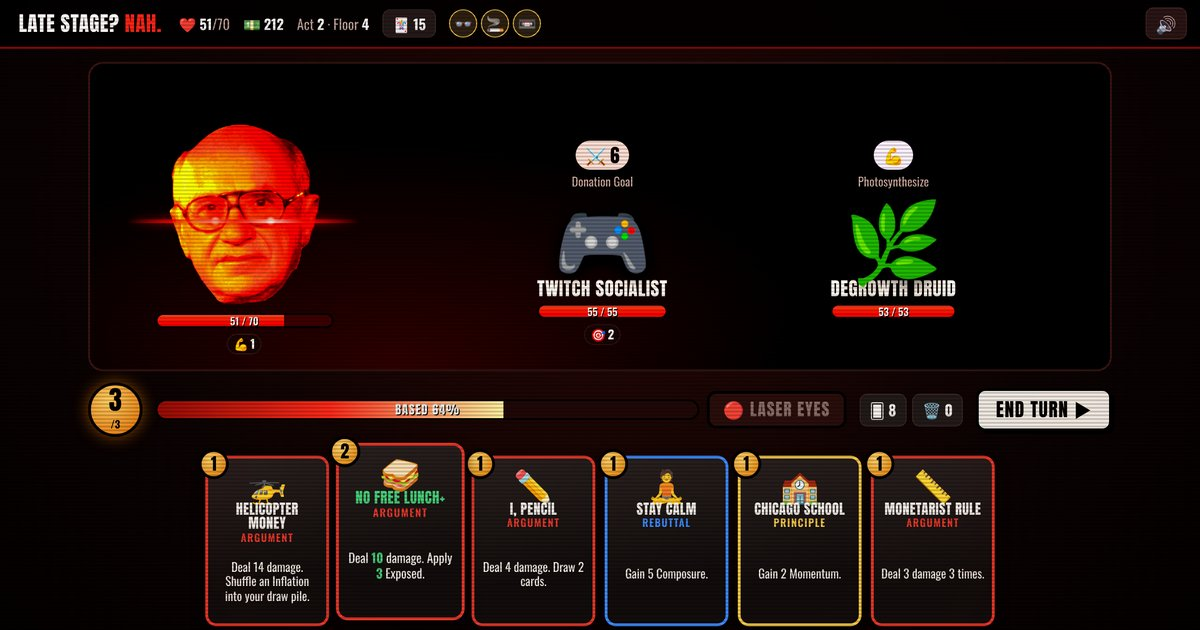
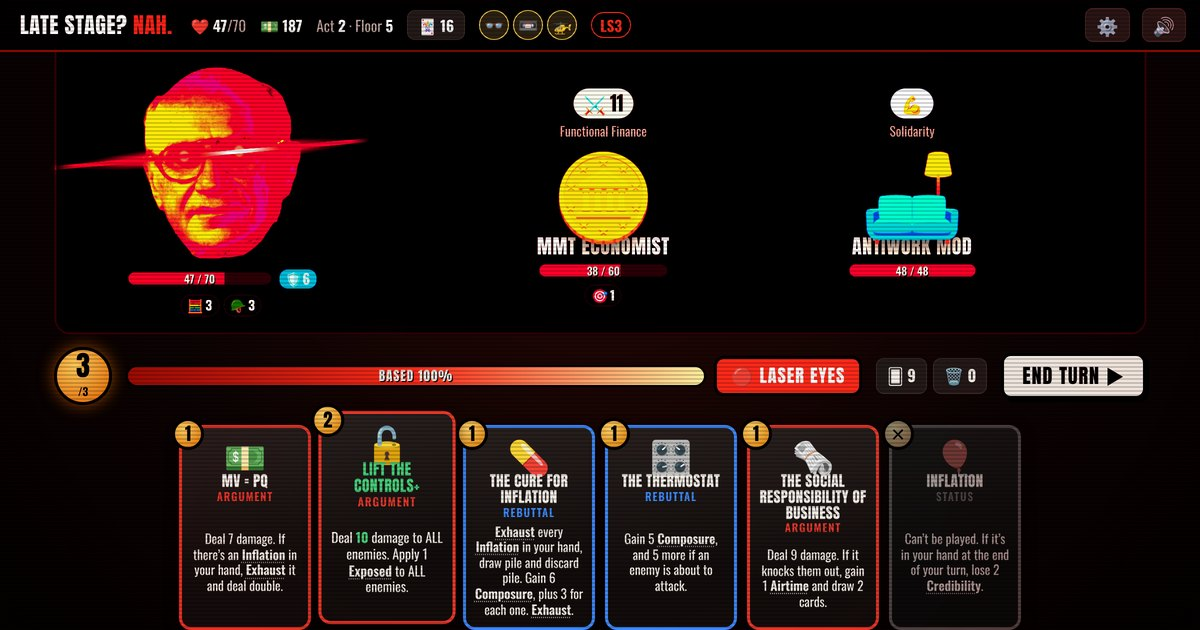
chore(just-getting-started): mark as released and update the screenshots

Changed region(s): [[0.0, 0.0, 1.0, 1.0]]

diff --git a/src/games.ts b/src/games.ts
@@ -75,7 +75,7 @@ export const games: Game[] = [
     slug: 'just-getting-started',
     title: 'JUST GETTING STARTED 😈',
     blurb: 'Late stage capitalism? Nah. A deckbuilder: laser-eyed Milton Friedman vs. everyone who says capitalism is dying.',
-    status: 'prototype',
+    status: 'released', // v1.0
     legacyPaths: ['JUST GETTING STARTED 😈.html'],
   },
 ];

diff --git a/ROADMAP.md b/ROADMAP.md
@@ -778,7 +778,7 @@ into a handicapping game. Steps 1 and 2 of the plan:
   Simulator (title), and JUST GETTING STARTED (title). Ancapistan Tycoon
   keeps its own save codes; Eminem's Human Action saves nothing.
 
-### JUST GETTING STARTED: rebuilt as a deckbuilder (prototype)
+### JUST GETTING STARTED: rebuilt as a deckbuilder ✅
 
 The clicker overlapped Ancapistan Tycoon, so it's now a roguelike deckbuilder
 (`src/games/just-getting-started/`), built on the meme: laser-eyed Milton
@@ -902,3 +902,32 @@ every upgrade by day 7–9 of 25, the pile stuck at the 60-block cap from week
   play; the daily run stays Milton's.
 - The secret bosses are photos (deep-fried, with laser eyes on their pupils,
   measured like Milton's). Five achievements.
+
+#### Run history, the compendium, music and options ✅
+
+- 📜 Run history (`records.ts`): the last 25 runs, with who played, the stage
+  or daily, the score, how far you got and who ratio'd you, plus your nemesis.
+- 📚 Compendium: every card, relic and enemy you've come across, the rest as
+  silhouettes.
+- Music (`music.ts`): a phonk loop made in code (a sliding 808, cowbell, hats,
+  a clap), calmer on the map, harder in fights and bosses, with a distorted
+  lead as the Based meter fills.
+- ⚙ Options: music and sound volume, reduced flashing (no Laser Eyes flash,
+  no jitter at full Based), screen shake on/off.
+
+#### More content, and a balance pass for Milton ✅
+
+- 8 new cards each. Milton: MV = PQ, The Thermostat, Rose's Edit, The Social
+  Responsibility of Business, Lift the Controls, The k-Percent Rule, The Cure
+  for Inflation, End the Draft. David: Wergild, Subscription Renewal, Turf
+  Wars Don't Pay, Law and Economics, Privatize the Roads, Cash Out a
+  Contract, Cariadoc of the Bow, Seasteading.
+- 3 new enemies: the MMT Economist and the Antiwork Mod (act 2), a Central
+  Bank Digital Currency (act 3, and an elite pairing).
+- 4 new TV appearances: Donahue round two, testifying to Congress and the
+  Free to Choose shoot for Milton; Patri's seastead for David.
+- Balance: the Fed Chair (the top killer for both) has 155 Credibility and a
+  15-damage Rate Hike. Over 1,500 bot runs each, Milton and David now win
+  about as often (before: 0.8% vs 5.5%).
+- Declared finished (v1.0): the "Prototype" badge is gone from the homepage,
+  with a new screenshot and link preview.
